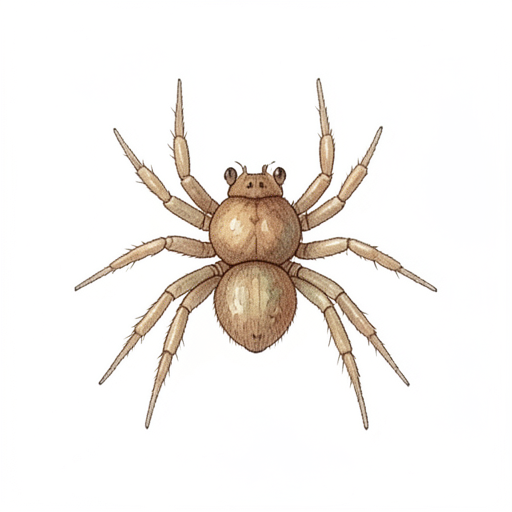
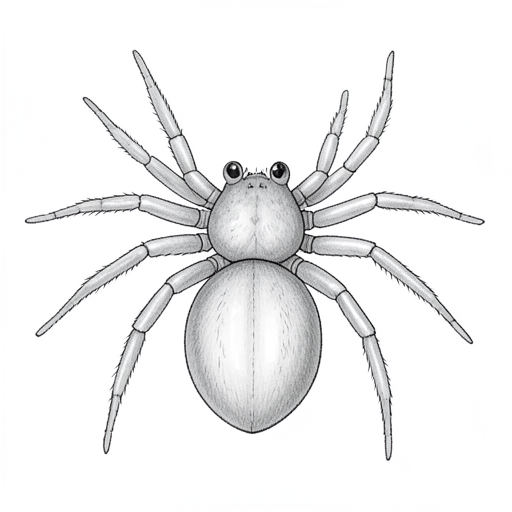
Save generated candidate and queue receipt

Changed region(s): [[0.0312, 0.0938, 0.9375, 0.9062], [0.9062, 0.6562, 0.9375, 0.6875]]

diff --git a/data/symbol-white-0.13-arm512/review.html b/data/symbol-white-0.13-arm512/review.html
@@ -1,1 +1,1 @@
-<!doctype html><html lang="sv"><meta charset="utf-8"><title>Bildkandidater</title><style>body{font:16px system-ui;margin:32px;color:#344453;background:white}.cards{display:flex;flex-wrap:wrap;gap:24px}figure{margin:0;width:240px;border:1px solid #ddd;padding:12px}img{width:100%;height:auto}small{color:#666}</style><h1>Bildkandidater</h1><figure><img src="reference.png" alt="Godkänd stilreferens"><figcaption>Stilreferens · se kandidatens metadata för om modellen använder referensbilden som indata.</figcaption></figure><p>Kontrollera handling, händer, borttagning av bakgrund och stil mot referensbilden. Ingen kandidat är publicerad.</p><div class="cards"><figure><img src="FSK_16_18.png" alt="potatis"><figcaption>potatis</figcaption><small>Utkast · granskning krävs</small><details><summary>Före friläggning</summary><img src="raw/FSK_16_18.png" alt="Motivet före bakgrundsborttagning"></details></figure><figure><img src="FSK_17_83.png" alt="soppa"><figcaption>soppa</figcaption><small>Utkast · granskning krävs</small><details><summary>Före friläggning</summary><img src="raw/FSK_17_83.png" alt="Motivet före bakgrundsborttagning"></details></figure><figure><img src="FSK_17_87.png" alt="t-shirt"><figcaption>t-shirt</figcaption><small>Utkast · granskning krävs</small><details><summary>Före friläggning</summary><img src="raw/FSK_17_87.png" alt="Motivet före bakgrundsborttagning"></details></figure><figure><img src="FSK_21_05.png" alt="mapp"><figcaption>mapp</figcaption><small>Utkast · granskning krävs</small><details><summary>Före friläggning</summary><img src="raw/FSK_21_05.png" alt="Motivet före bakgrundsborttagning"></details></figure><figure><img src="FSK_24_35.png" alt="potta"><figcaption>potta</figcaption><small>Utkast · granskning krävs</small><details><summary>Före friläggning</summary><img src="raw/FSK_24_35.png" alt="Motivet före bakgrundsborttagning"></details></figure><figure><img src="FSK_25_14.png" alt="spelpjäs"><figcaption>spelpjäs</figcaption><small>Utkast · granskning krävs</small><details><summary>Före friläggning</summary><img src="raw/FSK_25_14.png" alt="Motivet före bakgrundsborttagning"></details></figure><figure><img src="FSK_28_59.png" alt="gran"><figcaption>gran</figcaption><small>Utkast · granskning krävs</small><details><summary>Före friläggning</summary><img src="raw/FSK_28_59.png" alt="Motivet före bakgrundsborttagning"></details></figure><figure><img src="FSK_28_78.png" alt="björk"><figcaption>björk</figcaption><small>Utkast · granskning krävs</small><details><summary>Före friläggning</summary><img src="raw/FSK_28_78.png" alt="Motivet före bakgrundsborttagning"></details></figure><figure><img src="FSK_31_14.png" alt="matta"><figcaption>matta</figcaption><small>Utkast · granskning krävs</small><details><summary>Före friläggning</summary><img src="raw/FSK_31_14.png" alt="Motivet före bakgrundsborttagning"></details></figure><figure><img src="FSK_32_34.png" alt="myra"><figcaption>myra</figcaption><small>Utkast · granskning krävs</small><details><summary>Före friläggning</summary><img src="raw/FSK_32_34.png" alt="Motivet före bakgrundsborttagning"></details></figure><figure><img src="FSK_91_13.png" alt="skål"><figcaption>skål</figcaption><small>Utkast · granskning krävs</small><details><summary>Före friläggning</summary><img src="raw/FSK_91_13.png" alt="Motivet före bakgrundsborttagning"></details></figure><figure><img src="FSK_91_35.png" alt="handfat"><figcaption>handfat</figcaption><small>Utkast · granskning krävs</small><details><summary>Före friläggning</summary><img src="raw/FSK_91_35.png" alt="Motivet före bakgrundsborttagning"></details></figure><figure><img src="FSK_91_41.png" alt="penna"><figcaption>penna</figcaption><small>Utkast · granskning krävs</small><details><summary>Före friläggning</summary><img src="raw/FSK_91_41.png" alt="Motivet före bakgrundsborttagning"></details></figure><figure><img src="FSK_91_47.png" alt="pussel"><figcaption>pussel</figcaption><small>Utkast · granskning krävs</small><details><summary>Före friläggning</summary><img src="raw/FSK_91_47.png" alt="Motivet före bakgrundsborttagning"></details></figure><figure><img src="FSK_91_52.png" alt="leksaksbil"><figcaption>leksaksbil</figcaption><small>Utkast · granskning krävs</small><details><summary>Före friläggning</summary><img src="raw/FSK_91_52.png" alt="Motivet före bakgrundsborttagning"></details></figure><figure><img src="FSK_91_61.png" alt="löv"><figcaption>löv</figcaption><small>Utkast · granskning krävs</small><details><summary>Före friläggning</summary><img src="raw/FSK_91_61.png" alt="Motivet före bakgrundsborttagning"></details></figure></div></html>
+<!doctype html><html lang="sv"><meta charset="utf-8"><title>Bildkandidater</title><style>body{font:16px system-ui;margin:32px;color:#344453;background:white}.cards{display:flex;flex-wrap:wrap;gap:24px}figure{margin:0;width:240px;border:1px solid #ddd;padding:12px}img{width:100%;height:auto}small{color:#666}</style><h1>Bildkandidater</h1><figure><img src="reference.png" alt="Godkänd stilreferens"><figcaption>Stilreferens · se kandidatens metadata för om modellen använder referensbilden som indata.</figcaption></figure><p>Kontrollera handling, händer, borttagning av bakgrund och stil mot referensbilden. Ingen kandidat är publicerad.</p><div class="cards"><figure><img src="FSK_16_18.png" alt="potatis"><figcaption>potatis</figcaption><small>Utkast · granskning krävs</small><details><summary>Före friläggning</summary><img src="raw/FSK_16_18.png" alt="Motivet före bakgrundsborttagning"></details></figure><figure><img src="FSK_17_83.png" alt="soppa"><figcaption>soppa</figcaption><small>Utkast · granskning krävs</small><details><summary>Före friläggning</summary><img src="raw/FSK_17_83.png" alt="Motivet före bakgrundsborttagning"></details></figure><figure><img src="FSK_17_87.png" alt="t-shirt"><figcaption>t-shirt</figcaption><small>Utkast · granskning krävs</small><details><summary>Före friläggning</summary><img src="raw/FSK_17_87.png" alt="Motivet före bakgrundsborttagning"></details></figure><figure><img src="FSK_21_05.png" alt="mapp"><figcaption>mapp</figcaption><small>Utkast · granskning krävs</small><details><summary>Före friläggning</summary><img src="raw/FSK_21_05.png" alt="Motivet före bakgrundsborttagning"></details></figure><figure><img src="FSK_24_35.png" alt="potta"><figcaption>potta</figcaption><small>Utkast · granskning krävs</small><details><summary>Före friläggning</summary><img src="raw/FSK_24_35.png" alt="Motivet före bakgrundsborttagning"></details></figure><figure><img src="FSK_25_14.png" alt="spelpjäs"><figcaption>spelpjäs</figcaption><small>Utkast · granskning krävs</small><details><summary>Före friläggning</summary><img src="raw/FSK_25_14.png" alt="Motivet före bakgrundsborttagning"></details></figure><figure><img src="FSK_28_59.png" alt="gran"><figcaption>gran</figcaption><small>Utkast · granskning krävs</small><details><summary>Före friläggning</summary><img src="raw/FSK_28_59.png" alt="Motivet före bakgrundsborttagning"></details></figure><figure><img src="FSK_28_78.png" alt="björk"><figcaption>björk</figcaption><small>Utkast · granskning krävs</small><details><summary>Före friläggning</summary><img src="raw/FSK_28_78.png" alt="Motivet före bakgrundsborttagning"></details></figure><figure><img src="FSK_29_06.png" alt="spindel"><figcaption>spindel</figcaption><small>Utkast · granskning krävs</small><details><summary>Före friläggning</summary><img src="raw/FSK_29_06.png" alt="Motivet före bakgrundsborttagning"></details></figure><figure><img src="FSK_31_14.png" alt="matta"><figcaption>matta</figcaption><small>Utkast · granskning krävs</small><details><summary>Före friläggning</summary><img src="raw/FSK_31_14.png" alt="Motivet före bakgrundsborttagning"></details></figure><figure><img src="FSK_32_34.png" alt="myra"><figcaption>myra</figcaption><small>Utkast · granskning krävs</small><details><summary>Före friläggning</summary><img src="raw/FSK_32_34.png" alt="Motivet före bakgrundsborttagning"></details></figure><figure><img src="FSK_91_13.png" alt="skål"><figcaption>skål</figcaption><small>Utkast · granskning krävs</small><details><summary>Före friläggning</summary><img src="raw/FSK_91_13.png" alt="Motivet före bakgrundsborttagning"></details></figure><figure><img src="FSK_91_35.png" alt="handfat"><figcaption>handfat</figcaption><small>Utkast · granskning krävs</small><details><summary>Före friläggning</summary><img src="raw/FSK_91_35.png" alt="Motivet före bakgrundsborttagning"></details></figure><figure><img src="FSK_91_41.png" alt="penna"><figcaption>penna</figcaption><small>Utkast · granskning krävs</small><details><summary>Före friläggning</summary><img src="raw/FSK_91_41.png" alt="Motivet före bakgrundsborttagning"></details></figure><figure><img src="FSK_91_47.png" alt="pussel"><figcaption>pussel</figcaption><small>Utkast · granskning krävs</small><details><summary>Före friläggning</summary><img src="raw/FSK_91_47.png" alt="Motivet före bakgrundsborttagning"></details></figure><figure><img src="FSK_91_52.png" alt="leksaksbil"><figcaption>leksaksbil</figcaption><small>Utkast · granskning krävs</small><details><summary>Före friläggning</summary><img src="raw/FSK_91_52.png" alt="Motivet före bakgrundsborttagning"></details></figure><figure><img src="FSK_91_61.png" alt="löv"><figcaption>löv</figcaption><small>Utkast · granskning krävs</small><details><summary>Före friläggning</summary><img src="raw/FSK_91_61.png" alt="Motivet före bakgrundsborttagning"></details></figure></div></html>
